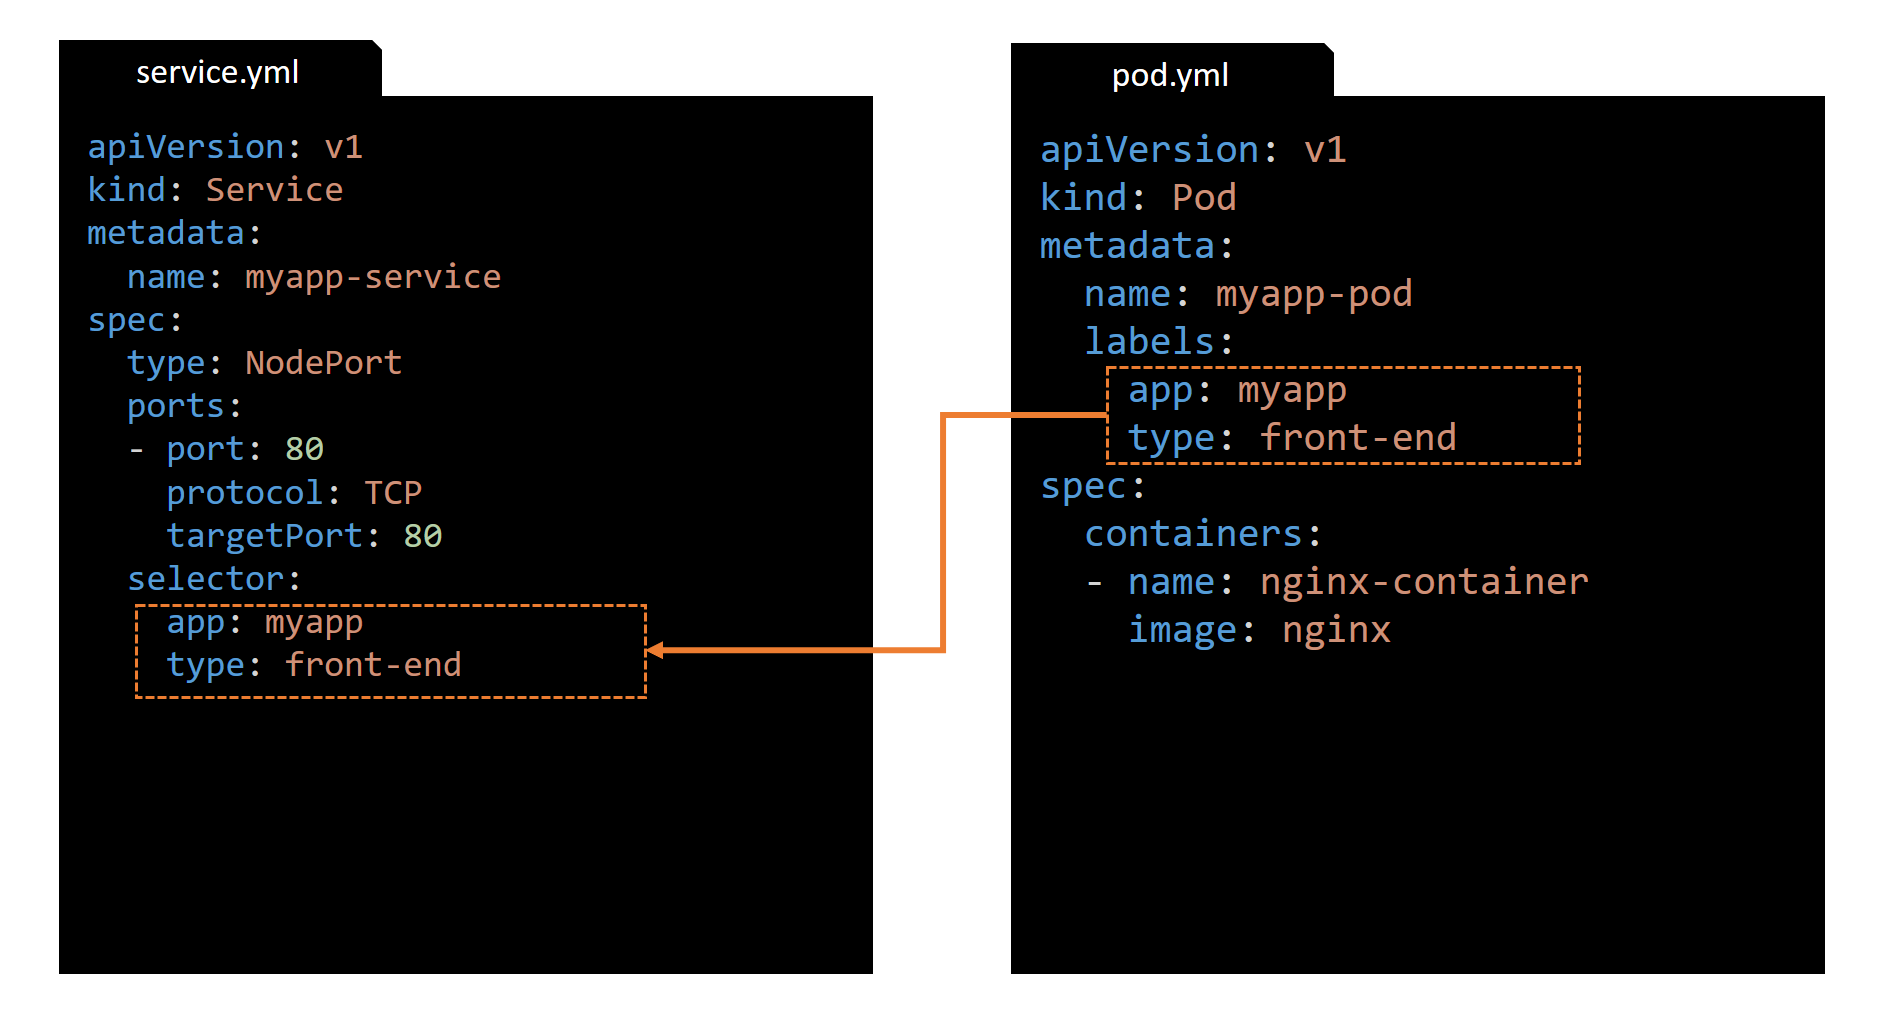
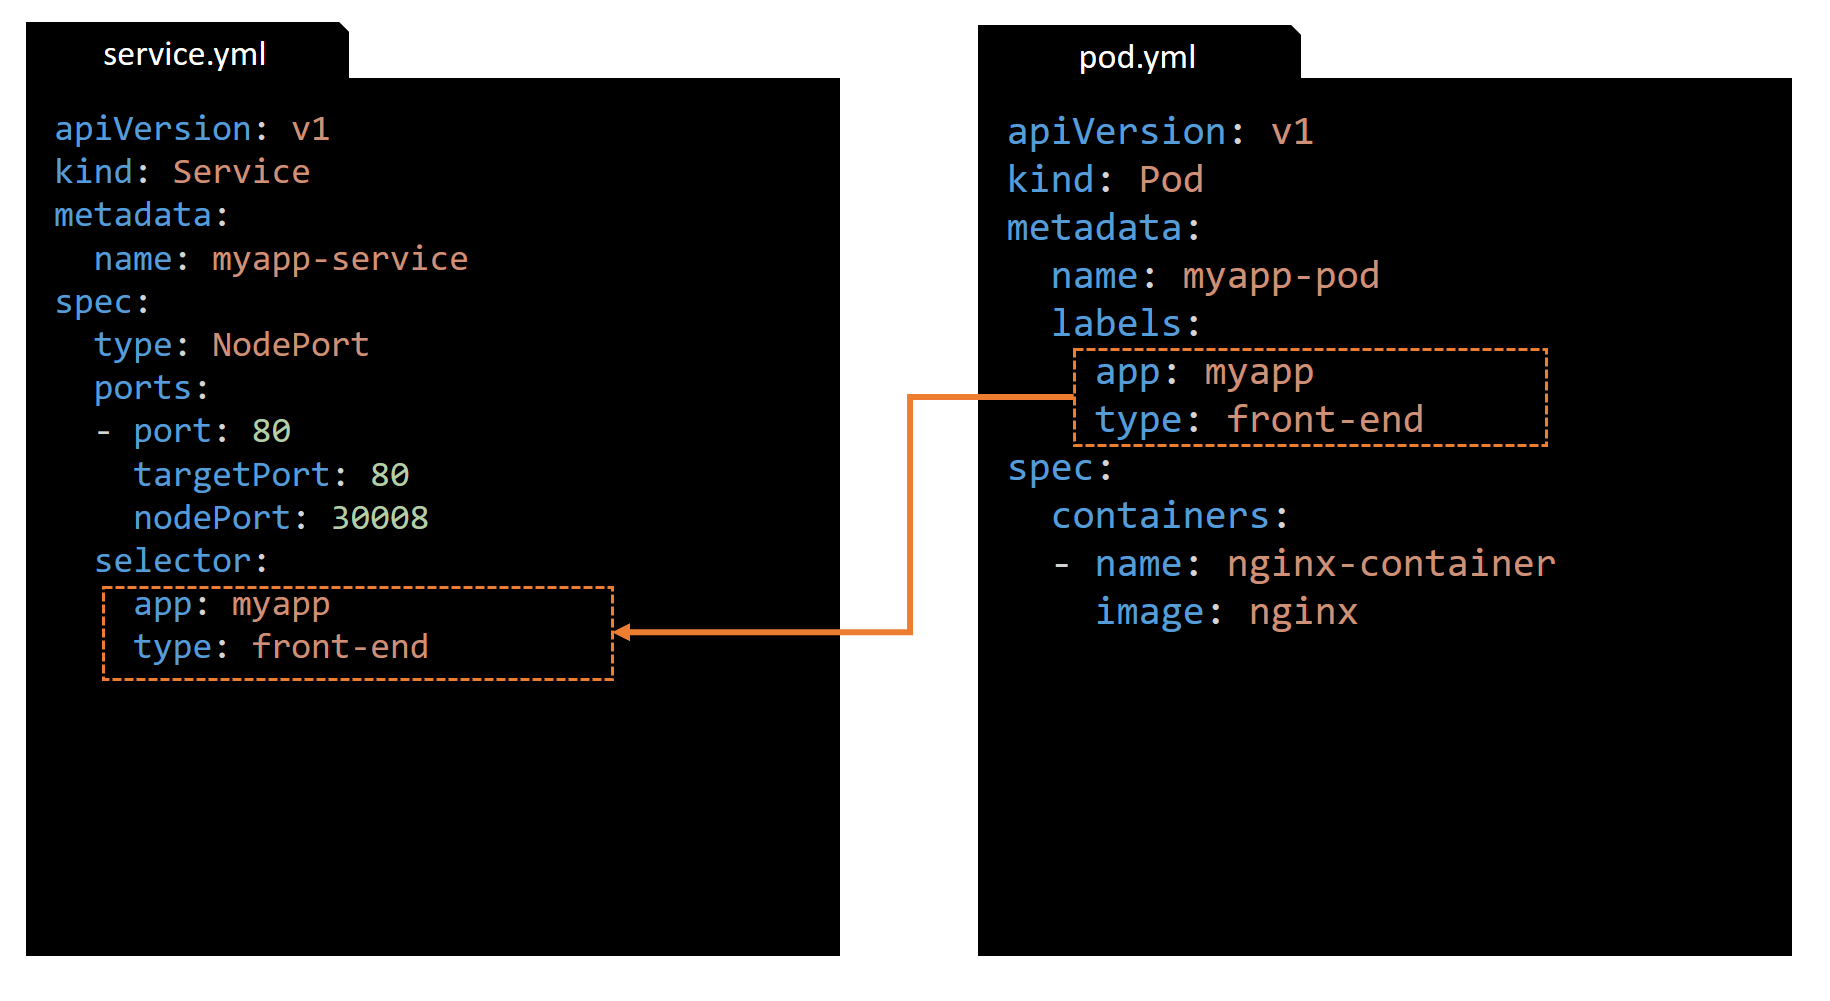
Service - NodePort - cmds (2)

Changed region(s): [[0.0, 0.0, 0.4984, 0.96], [0.4984, 0.1239, 0.841, 0.6503], [0.5295, 0.0, 0.9967, 0.96]]

diff --git a/docs/K_S5_Kubernetes_Services.md b/docs/K_S5_Kubernetes_Services.md
@@ -67,7 +67,7 @@
 ---
 
 ## Service - NodePort - definition file (1)
-![img_width_100](images/service_simple_network_topology_05.png)
+![img_width_100](images/service_simple_network_topology_05b.png)
 ---
 
 ## Service - NodePort - definition file (2)
@@ -82,3 +82,33 @@
  - In the `selector` section we must specify a list of labels to identify the pod
 ![img_width_100](images/pod-vs-service.png)
 
+## Service - NodePort - cmds (1)
+ - To create the service use the `kubectl apply -f service.yml` command
+```console
+# kubectl apply -f service.yml
+service/myapp-service created
+```
+ - To list the services use the `kubectl get services` command
+ ```console
+# kubectl get services
+NAME            TYPE        CLUSTER-IP      EXTERNAL-IP   PORT(S)        AGE
+kubernetes      ClusterIP   10.96.0.1       <none>        443/TCP        57m
+myapp-service   NodePort    10.105.47.242   <none>        80:30008/TCP   15m
+
+```
+> Note that the Service TYPE `NodePort`, the CLUSTER-IP 10.105.47.242 and the <port>:<nodePort> is displayed for the myapp-service
+---
+## Service - NodePort - cmds (2)
+ - From the outside world we can use the IP address of the node to access the web server
+```console
+# curl http://192.168.1.2:30008
+<!DOCTYPE html>
+<html>
+<head>
+<title>Welcome to nginx!</title>
+...
+``` 
+ - From within the cluster we can use the `ClusterIP` of the service to access the web server
+```console
+curl http://10.105.47.242:80
+``` 
